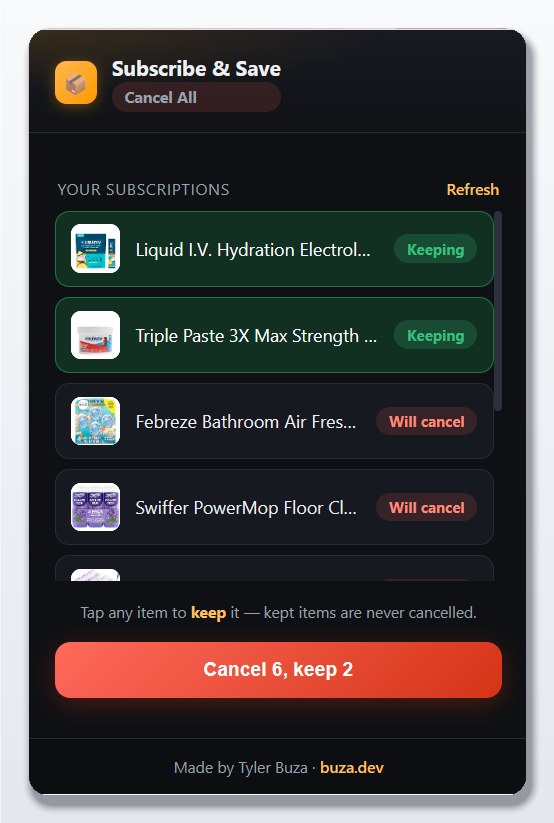
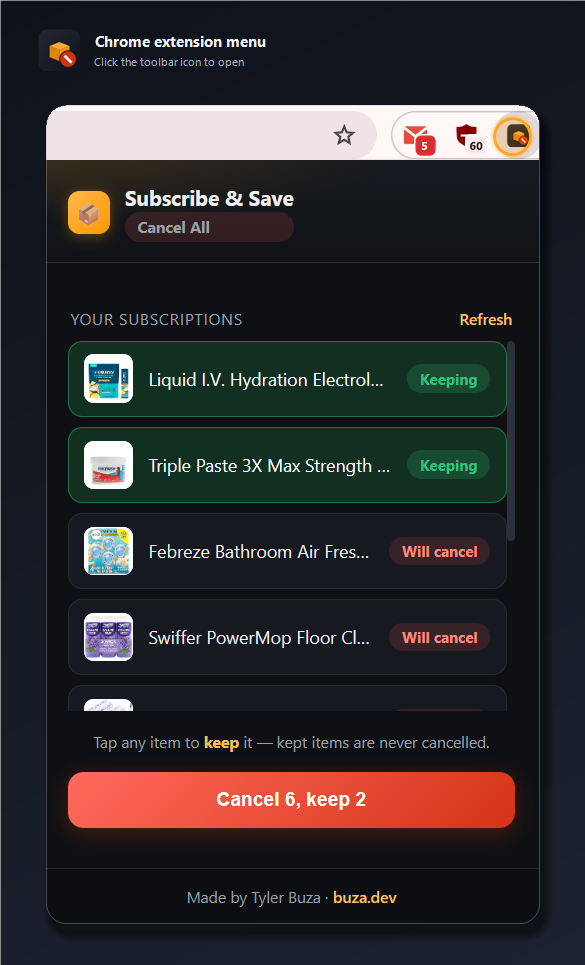
Render aligned browser-context screenshots

diff --git a/README.md b/README.md
@@ -11,9 +11,9 @@ the ones you actually want.
 ### Use the floating panel or browser menu
 
 <p align="center">
-  <img src="screenshots/panel.png" width="420" alt="Floating Amazon panel showing kept and cancelable subscriptions">
+  <img src="screenshots/panel.png" width="360" alt="Floating Amazon panel showing kept and cancelable subscriptions">
   &nbsp;&nbsp;
-  <img src="screenshots/popup.png" width="300" alt="Extension popup showing kept and cancelable subscriptions">
+  <img src="screenshots/popup.png" width="360" alt="Chrome toolbar with the extension menu open">
 </p>
 
 ## What it does
